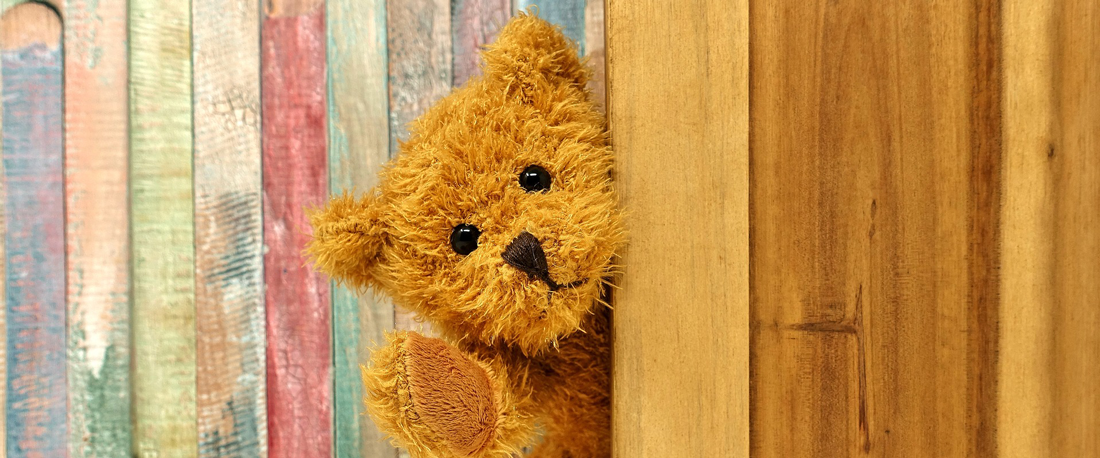
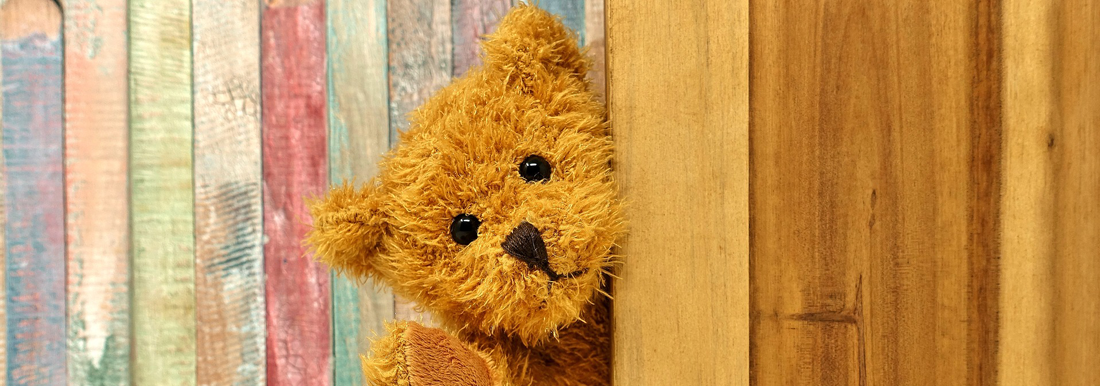
commit 29/04

diff --git a/css/style.css b/css/style.css
@@ -92,12 +92,13 @@ nav a:hover
 .accueil
 {
     position: relative;
+    height:80%;
 }
 
 .accueil-img > img
 {
     width:100%;
-    height: 30em;
+    object-fit: cover;
 }
 
 .accueil-txt
@@ -105,7 +106,7 @@ nav a:hover
     position: absolute;
     top: 25px;
     width: 490px;
-    font-size: 4em;
+    font-size: 3.5em;
     font-family: 'fawn_scriptregular';
     left: 30px;
 }
@@ -122,32 +123,63 @@ section li {
 
 section img {
     height: auto;
-    margin-bottom: .5rem;
     max-width: calc(100% + 2rem);
     position: relative;
     left: -1rem;
     right: -1rem;
 }
 
-p {
-    margin: 0 0 .5rem;
-}
-
-/*main {
-    padding: 1rem 2rem;
-    margin: auto;
-}
-
-header {
-    padding: 1rem 2rem;
-    text-align: center;
-}*/
-
 .carte {
     border: 1px solid #bac6d3;
     border-radius: 8px;
     padding: 1rem;
+    height: 87%;
 }
+
+.nom-peluche
+{
+    text-align: center;
+    margin-top: -5px;
+    margin-bottom: 15px;
+}
+
+
+.carte-desc
+{
+    display:flex;
+    align-items: center;
+}
+
+.carte-desc p
+{
+    margin-left:45%;
+}
+
+section > ul > li:nth-child(3) > div > div > p
+{
+    margin-left: 41%;
+}
+
+a.button
+{
+    background-color:#A165CA;
+    padding:2%;
+    border-radius:9px;
+    text-decoration: none;
+    color:black;
+    margin-left:23%;
+}
+
+section > ul > li:nth-child(1) > div > img
+{
+    width: 105%;
+    margin-left: 1%;
+}
+
+/*section > ul > li:nth-child(5) > div > img
+{
+    width: 104%;
+}*/
 
 /*Carousel*/
 .liste-peluches {
@@ -161,6 +193,20 @@ header {
     flex: 1 0 250px;
     margin-left: 1rem;
     scroll-snap-align: start;
+}
+section > ul > li:nth-child(3) > div
+{
+    width: 80%;
+}
+
+section > ul > li:nth-child(5) > div
+{
+    width: 89%;
+}
+
+section > ul > li:nth-child(4)
+{
+    margin-left: -2.5rem;
 }
 
 ::-webkit-scrollbar-track {
